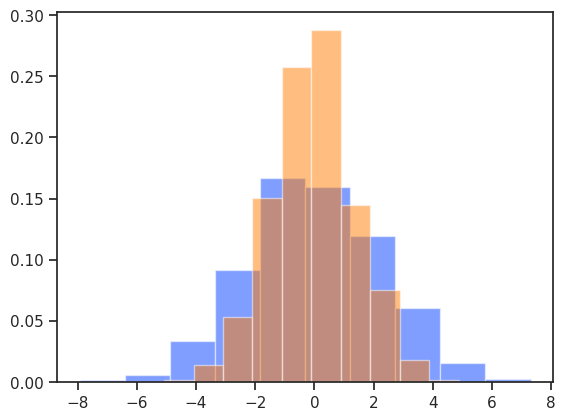
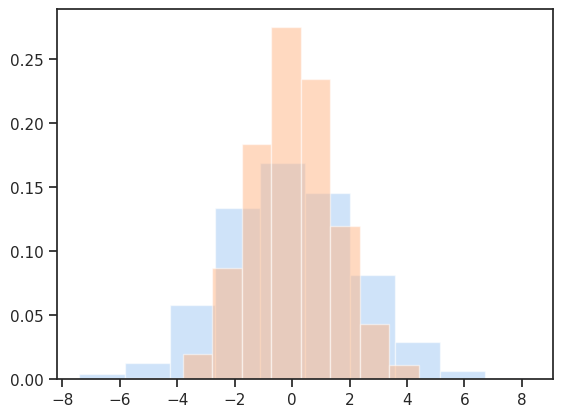
edited plots :))))

Changed region(s): [[0.0, 0.0, 0.9982, 0.9664]]

diff --git a/seabornplots.py b/seabornplots.py
@@ -6,7 +6,7 @@ import pandas as pd
 # NOTE: if something is depracated it means that in a new version it's been updated, so there is a new way to say something
 # NOTE: Data Structures: Data Frames & Series
 
-sns.set_theme(style='ticks', palette='bright') # seaborn's method to set its chart style
+sns.set_theme(style='ticks', palette='pastel') # seaborn's method to set its chart style
 # style: darkgrid, whitegrid, dark, white, ticks
 # palette: deep, muted, bright, pastel, dark, colorblind
 
@@ -38,4 +38,30 @@ print(iris.head())
 # when its a variable against another variable it generates a scatter plot
 sns.pairplot(iris, hue='species', height = 2.5)
 plt.savefig('sns-pairplot.png', bbox_inches='tight')
+plt.close()
+
+# Load another built-in data set
+tips = sns.load_dataset('tips')
+print(tips.head())
+# Create a new column in the tip data frame called 'tip_percent'
+tips['tip_percent'] = 100 * tips['tip'] / tips['total_bill']
+
+# FACET GRID: compare multiple dimensions
+grid = sns.FacetGrid(tips, row='sex', col ='time', margin_titles=True)
+grid.map(plt.hist, 'tip_percent', bins=np.linspace(0,40,15))
+plt.savefig('sns-facetgrid.png', bbox_inches='tight')
+plt.close()
+# Note on graphs: there are more male employees then female employeees based of the graphs - this is based on the HEIGHT: HEIGHT = NUM OF EMPLOYEES 
+
+
+# CATEGORICAL PLOT: look at the distribution of parameters with bins defined by another parameter
+# can also set the KIND to ‘bar’ if you want to show totals rather than distribution - kind=’bar’
+sns.catplot(x='day', y='total_bill', hue='sex', data=tips, kind='box', palette=["m", "g"])
+plt.savefig('sns-catplot.png', bbox_inches='tight')
+plt.close()
+# NOTE: 50% of the data is in the box, 50% is in the lines. 
+
+# JOIN PLOT:
+sns.jointplot(x='total_bill', y='tip', data=tips, kind='hex')
+plt.savefig('sns-joitnplot.png')
 plt.close()
